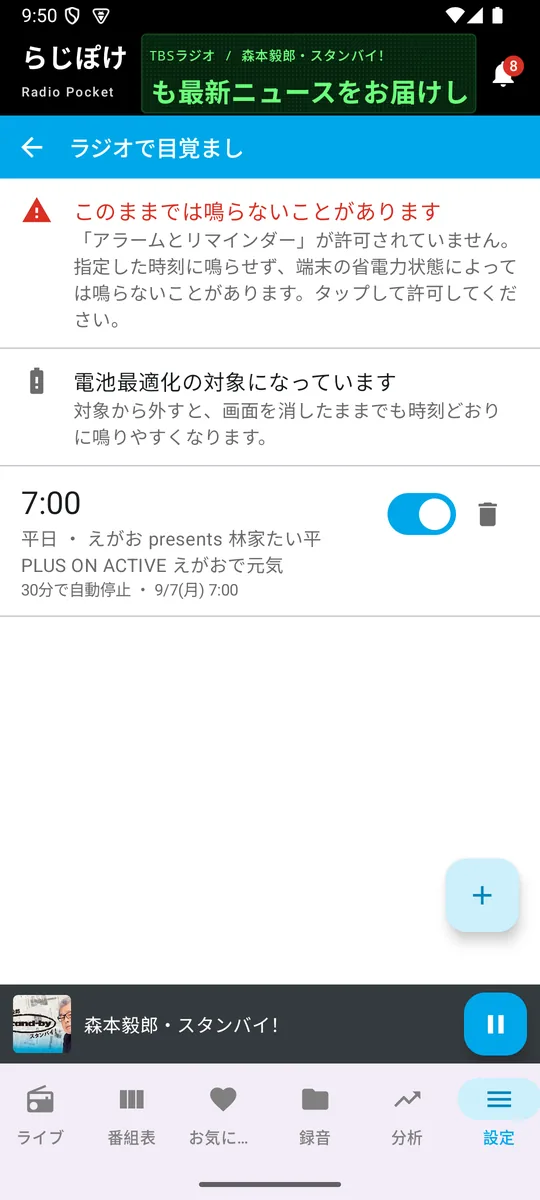
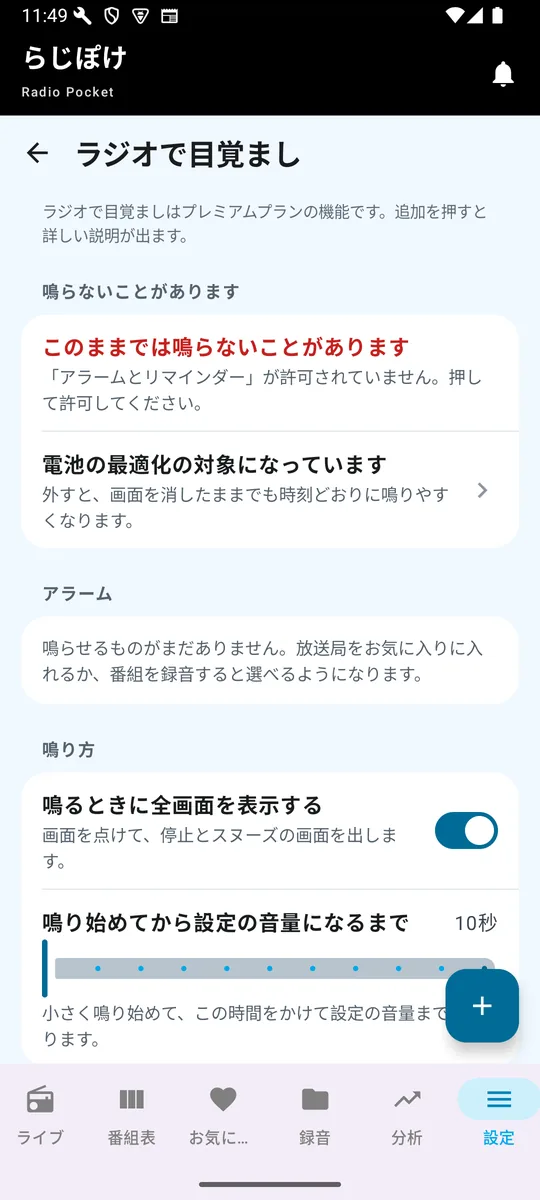
使い方ページを 1.11.0 の設定画面に合わせる（RP-103） (#227)
使い方ページを 1.11.0 の設定画面に合わせる（RP-103）

- 設定の道順を新しい入口（聴く・録る・ラジオで目覚まし・通知・見た目・つながり・情報とサポート・詳しい設定）に直した（使い方 13か所・トップ・記事・テストのページ・ロードマップ）
- 使い方の「設定」の節を、最初の画面（プランのカード・検索・入口7つ・詳しい設定）の表に書き直した
- 言葉を用語集にそろえた（マーク・既定・再生の速さ・札は「スタンダード」・残せる録音・ライト／ダーク／端末に合わせる）。マークの見出しの id は前のまま（リンクが切れないように）
- 写真4枚を撮り直した（ライト・フリーの画面。番組名・局名・「開発用」の札を写さない・設定の最初の画面は「つながり」の手前で切る・アカウントとプランはエミュレーターだけで出る行の手前で切る）

diff --git a/index.md b/index.md
@@ -81,7 +81,7 @@ Android 6.0 以降で動きます。
 
 少し戻す・少し進める、スリープタイマーといった操作ができます。
 
-**再生速度（スタンダード以上）** — 6段階（0.5 / 1 / 1.5 / 2 / 3 / 5倍）から選べます。移動時間に合わせて長い番組を速く、聞き取りにくいところをゆっくり。よく使う速度を決めておけば、その速度で再生が始まります（ライブは実時間で配信されるため、常に等倍です）。
+**再生の速さ（スタンダードプランの機能です）** — 6段階（0.5 / 1 / 1.5 / 2 / 3 / 5倍）から選べます。移動時間に合わせて長い番組を速く、聞き取りにくいところをゆっくり。よく使う速度を決めておけば、その速度で再生が始まります（ライブは実時間で配信されるため、常に等倍です）。
 
 **聴いていた位置を、番組ごとに覚えています。** 別の番組を聴いてから戻っても、続きから再生できます。
 
@@ -97,13 +97,13 @@ Android 6.0 以降で動きます。
 
 **オンエア曲の表示は、どのプランでもお使いいただけます。** 放送中にかかった曲を、曲名と演奏者つきで一覧できます。気に入った曲はお気に入りに残せます。その曲を頭出しの目印として使えるようになるのが、プレミアムです。
 
-### 気になったところに印を置く（スタンダード以上）
+### 気になったところにマークを置く（スタンダードプランの機能です）
 
-録音した番組を聴いていて、あとで聞き返したいところが出てきたら、再生画面いちばん下の「印を置く」を押してください。**その場で印が残ります。再生は止まりません。** あとから一覧でメモを添えることもできます。
+録音した番組を聴いていて、あとで聞き返したいところが出てきたら、再生画面いちばん下の「マークを置く」を押してください。**その場でマークが残ります。再生は止まりません。** あとから一覧でメモを添えることもできます。
 
 一覧から選ぶと、その位置から再生が始まります。頭出しが「アプリが見つけた区切り」なのに対して、こちらは**自分で決めた場所**です。同じ画面の隣り合ったタブに並びます。
 
-プランを下げても、置いた印は消えません。件数はそのまま表示され、スタンダードに戻すと中身もそのまま出てきます。
+プランを下げても、置いたマークは消えません。件数はそのまま表示され、スタンダードに戻すと中身もそのまま出てきます。
 
 ## いつも使う
 

diff --git a/articles/record-radio-android.md b/articles/record-radio-android.md
@@ -67,7 +67,7 @@ date_modified: "2026-09-25"
 
 録音した番組は「録音」の一覧に並び、その場から再生できます。聴いていた位置は番組ごとに覚えているので、途中でやめても続きから聴けます。
 
-保存先は、アプリ内・共有の音楽フォルダ・好きなフォルダの3つから選べます。モバイル通信で録音しない設定も、設定の「データ通信の使いかた」から選べます。
+保存先は、アプリ内・共有の音楽フォルダ・好きなフォルダの3つから選べます。モバイル通信で録音しない設定も、設定の「録る」→「Wi-Fi のときだけ録音」で切り替えられます。
 
 手元に置いておける録音の数や、使える機能はプランによって変わります。くわしくは [らじぽけの紹介](../index.html#料金) をご覧ください。
 
